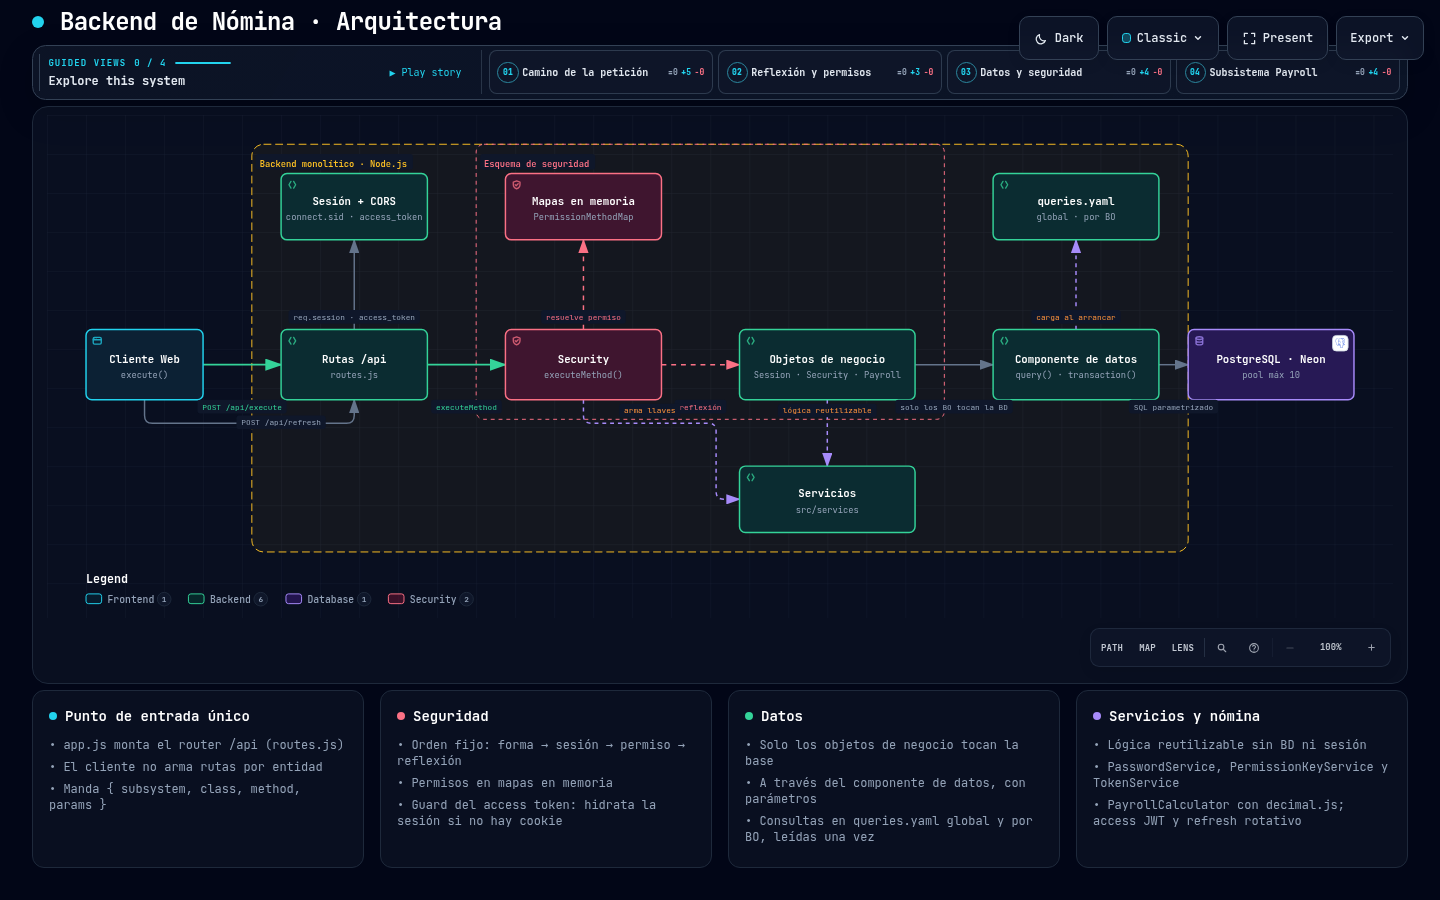
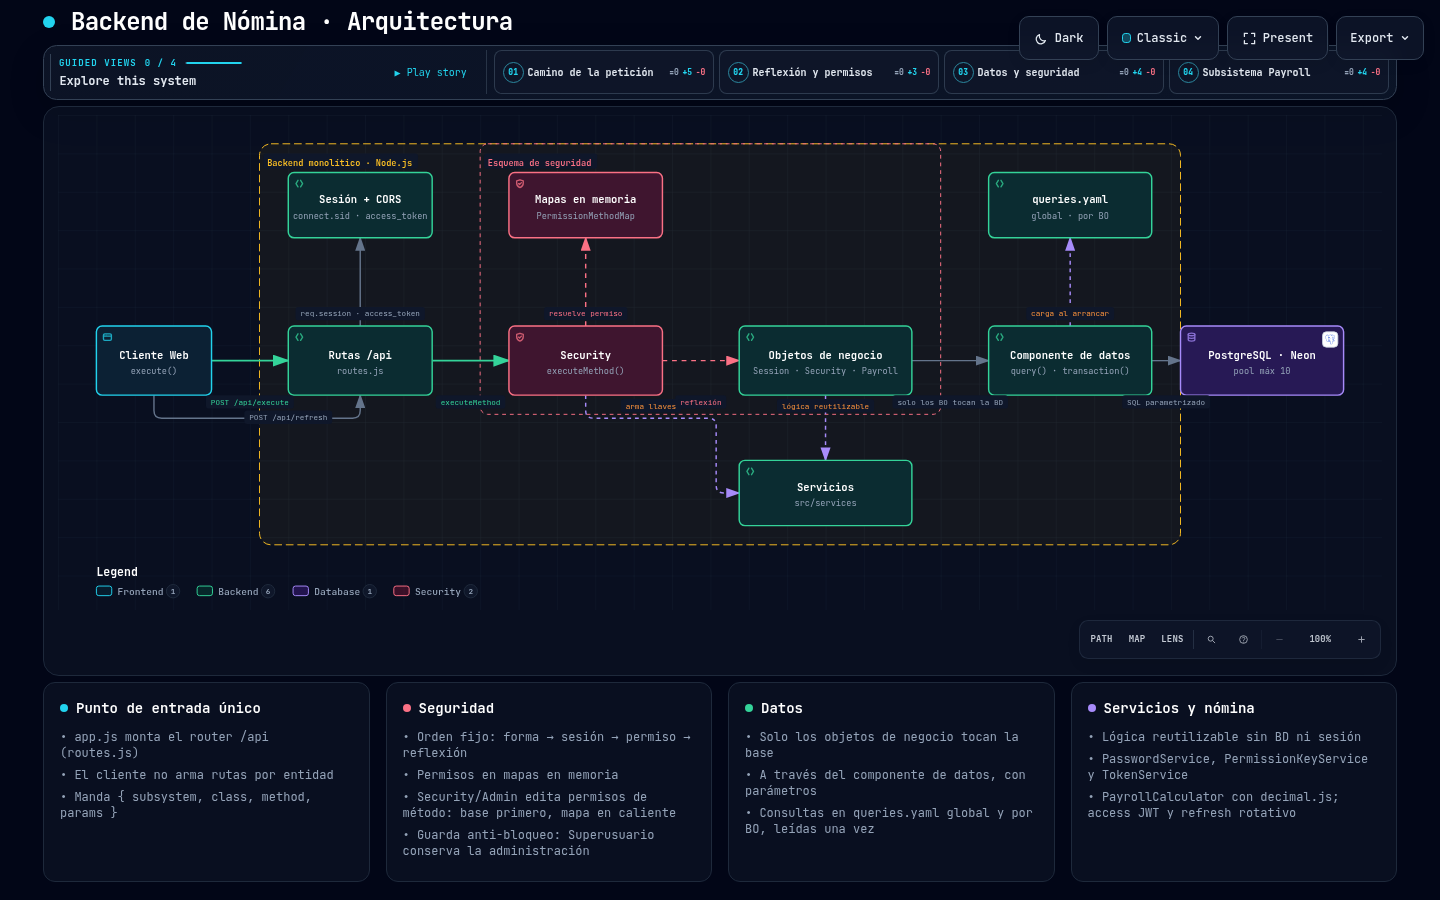
docs: administracion de permisos de metodo por perfil

diff --git a/archify-out/payroll-backend-architecture.html b/archify-out/payroll-backend-architecture.html
@@ -5280,8 +5280,8 @@ OTHER DEALINGS IN THE FONT SOFTWARE.
         <text data-detail="fine" x="315" y="120" class="t-backend" font-size="7" text-anchor="middle">express-session + JWT</text>
         </g>
 
-        <g id="node-permisos" data-node-id="permisos" data-node-label="Mapas en memoria" tabindex="0" role="button" aria-label="Focus Mapas en memoria, PermissionMethodMap, Backend monolítico · Node.js › Esquema de seguridad" aria-pressed="false" data-node-kind="security" data-node-sublabel="PermissionMethodMap" data-node-tag="O(1) por perfil" data-node-context="Backend monolítico · Node.js › Esquema de seguridad">
-          <title>Mapas en memoria · PermissionMethodMap · Backend monolítico · Node.js › Esquema de seguridad · O(1) por perfil</title>
+        <g id="node-permisos" data-node-id="permisos" data-node-label="Mapas en memoria" tabindex="0" role="button" aria-label="Focus Mapas en memoria, PermissionMethodMap, Backend monolítico · Node.js › Esquema de seguridad" aria-pressed="false" data-node-kind="security" data-node-sublabel="PermissionMethodMap" data-node-tag="O(1) por perfil · edición en caliente" data-node-context="Backend monolítico · Node.js › Esquema de seguridad">
+          <title>Mapas en memoria · PermissionMethodMap · Backend monolítico · Node.js › Esquema de seguridad · O(1) por perfil · edición en caliente</title>
           <rect x="470" y="60" width="160" height="68" rx="6" class="c-mask"/>
           <rect x="470" y="60" width="160" height="68" rx="6" class="c-security" stroke-width="1.5"/>
           <g aria-hidden="true" data-semantic-sigil="security" class="semantic-sigil s-security" transform="translate(476 66) scale(0.6875)">
@@ -5290,7 +5290,7 @@ OTHER DEALINGS IN THE FONT SOFTWARE.
           </g>
           <text data-node-label="" data-detail-anchor="" x="550" y="92" class="t-primary" font-size="11" font-weight="600" text-anchor="middle">Mapas en memoria</text>
         <text data-detail="context" x="550" y="108" class="t-muted" font-size="9" text-anchor="middle">PermissionMethodMap</text>
-        <text data-detail="fine" x="550" y="120" class="t-security" font-size="7" text-anchor="middle">O(1) por perfil</text>
+        <text data-detail="fine" x="550" y="120" class="t-security" font-size="6.8" text-anchor="middle">O(1) por perfil · edición en caliente</text>
         </g>
 
         <g id="node-queries" data-node-id="queries" data-node-label="queries.yaml" tabindex="0" role="button" aria-label="Focus queries.yaml, global · por BO, Backend monolítico · Node.js" aria-pressed="false" data-node-kind="backend" data-node-sublabel="global · por BO" data-node-tag="SQL parametrizado $1, $2" data-node-context="Backend monolítico · Node.js">
@@ -5588,7 +5588,8 @@ OTHER DEALINGS IN THE FONT SOFTWARE.
         <ul>
           <li>&bull; Orden fijo: forma → sesión → permiso → reflexión</li>
           <li>&bull; Permisos en mapas en memoria</li>
-          <li>&bull; Guard del access token: hidrata la sesión si no hay cookie</li>
+          <li>&bull; Security/Admin edita permisos de método: base primero, mapa en caliente</li>
+          <li>&bull; Guarda anti-bloqueo: Superusuario conserva la administración</li>
         </ul>
       </div>
 

diff --git a/AGENTS.md b/AGENTS.md
@@ -84,6 +84,17 @@ están aplicadas en el branch de desarrollo de Neon** (la credencial volvió a
 autenticar); `pnpm test` 69/69 y `payroll_e2e.mjs` 50/50 → `PAYROLL E2E OK`.
 Los pasos originales para el socio quedan en `PENDIENTE-SOCIO.txt`.
 
+**Spec 009 (permisos de método por perfil) implementada (2026-11-08):**
+`Security/Admin` suma `listarMetodos`, `listarPermisosMetodo`,
+`asignarPermisoMetodo` y `quitarPermisoMetodo`, exclusivos de
+`Superusuario`; la migración `db/migrations/006_permisos_metodos.sql` los
+siembra y crea la opción de menú `Permisos`, también exclusiva de ese perfil.
+Cada cambio se escribe primero en `permiso_metodo` y después actualiza
+`PermissionMethodMap` con `security.setPermissionMethod` (sin reiniciar).
+`Superusuario` no puede perder los cinco métodos que sostienen la vista
+(409). `pnpm test` 80/80 y `scripts/manual/permisos_e2e.mjs` 38/38 →
+`PERMISOS E2E OK`.
+
 **Pendiente:** el endpoint del menú y el front (Fase 5), y migrar las
 consultas de `queries.yaml` a los BO.
 
@@ -367,11 +378,36 @@ o datos desechables), y ninguna prueba depende de otra.
 - **`ON DELETE RESTRICT` lanza `restrict_violation` (23001)**, no
   `foreign_key_violation` (23503). Manejar ambos al traducir errores. Ver
   skill `nomina-postgres-neon`.
+- **Los mapas de permisos viven en el proceso.** `setPermissionMethod`
+  actualiza solo la instancia que atendió la escritura. Con varias instancias
+  hay que publicar el cambio (pub/sub) o llamar `reloadPermissions` en cada
+  nodo; en este proyecto hay una sola. Ver spec 009.
 
 ## Decisiones de diseño
 
 Registro de decisiones con su motivo. Las viejas no se editan: si una cambia,
 se agrega una nueva que la reemplaza.
+
+### 2026-11-08
+
+- **Administración de permisos de método en caliente.** `Security/Admin`
+  expone `listarMetodos`, `listarPermisosMetodo`, `asignarPermisoMetodo` y
+  `quitarPermisoMetodo`, solo para `Superusuario`. Motivo: cambiar quién
+  ejecuta un método obligaba a escribir SQL y reiniciar el backend.
+- **La base manda: primero `permiso_metodo`, después el mapa.** Si la
+  escritura falla, el mapa no cambia. Los ids se validan como enteros
+  positivos antes de consultar (`400`); perfil o método inexistente/inactivo
+  es `404`. Asignar y quitar son idempotentes (`yaEstaba` / `yaNoEstaba`).
+- **Guarda anti-bloqueo.** `Superusuario` no puede perder
+  `Security/Admin/{listarMetodos,listarPermisosMetodo,asignarPermisoMetodo,quitarPermisoMetodo}`
+  ni `Security/User/listarPerfiles` (`409`): sin ellos nadie podría volver a
+  conceder permisos.
+- **La opción de menú `Permisos` es exclusiva de `Superusuario`.** La
+  migración 006 la crea (`Security`, orden 4) y borra el grant que el seed
+  concede a `Administrador` para todas las opciones de `Security`. Motivo:
+  re-ejecutar el seed no debe exponer la vista a otro perfil.
+- **Sin cambio de esquema.** `permiso_metodo (perfil_id, metodo_id)` ya
+  existía; 006 solo inserta datos. `db/schema.dbml` no cambia.
 
 ### 2026-10-20
 

diff --git a/MEMORY.md b/MEMORY.md
@@ -82,3 +82,4 @@ algo en regla permanente, se mueve a su documento y se quita de este archivo.
 
 - **Subsistema `Payroll` implementado (2026-11-08)**: 8 BO en `src/bo/Payroll/` (`Cargo`, `Hours`, `Affiliation`, `Concept`, `Novedad`, `Loan`, `Period`, `Receipt`), `PayrollCalculator` con `decimal.js` (240 h/mes, extra ×1.5, prorrateo por frecuencia, cuotas con interés simple plano), `queries.yaml` (64 consultas), `db/migrations/004_payroll.sql` (registro_horas, `cargo.valor_hora_base`, 12 conceptos, aportes de ley, 8 clases, 33 métodos, permisos y menú) y `005_listar_personas.sql` (`Security/User/listarPersonas`). Tests del calculador: **69/69**.
 - **004 y 005 aplicadas en Neon (2026-11-08)** sobre el branch de desarrollo: `registro_horas`, 12 conceptos, 4 tipos y 4 parámetros de aporte, subsistema Payroll (8 clases, 33 métodos), 103 permisos de método y 8 opciones de menú; `Security/User/listarPersonas` con permisos. Se corrigió un cast en 004 (`tope_base`/`piso_base` NULL de `VALUES` → `numeric(12,2)`). Re-ejecutadas: idempotentes (0 filas). `pnpm test` **69/69** y `payroll_e2e.mjs` **50/50 → PAYROLL E2E OK**. Diagrama `archify` refrescado con Payroll; falta refrescar el grafo `graphify`.
+- **Spec 009 (permisos de método por perfil) implementada (2026-11-08)**: `Security/Admin` suma `listarMetodos`, `listarPermisosMetodo`, `asignarPermisoMetodo` y `quitarPermisoMetodo` (solo `Superusuario`); migración `006_permisos_metodos.sql` con la opción de menú `Permisos` exclusiva de `Superusuario`. La escritura va a `permiso_metodo` y luego al mapa con `security.setPermissionMethod` (en caliente, sin reiniciar); guarda anti-bloqueo 409 para los cinco métodos críticos. `pnpm test` **80/80** y `permisos_e2e.mjs` **38/38 → PERMISOS E2E OK**. Diagrama `archify` y grafo `graphify` refrescados.

diff --git a/docs/bitacora.md b/docs/bitacora.md
@@ -187,3 +187,24 @@ es. Orden cronológico.
   86.63, neto 488.37; el empleado ve su recibo y recibe 403 al procesar).
 - Diagrama `archify` refrescado con el subsistema Payroll (9/9 checks
   showcase, 0 errores, 0 warnings, visual-check sin overflow).
+
+### Administración de permisos de método por perfil (2026-11-08)
+
+- Spec 009: `Security/Admin` suma `listarMetodos`, `listarPermisosMetodo`,
+  `asignarPermisoMetodo` y `quitarPermisoMetodo`. La migración idempotente
+  `db/migrations/006_permisos_metodos.sql` siembra los cuatro métodos, los
+  concede solo a `Superusuario` y crea la opción de menú `Permisos`
+  (`Security`, orden 4), exclusiva de ese perfil (borra el grant que el seed
+  da a `Administrador`).
+- Seis consultas nuevas en `src/bo/Security/queries.yaml`. El BO valida los
+  ids (`400`), exige perfil/método activos (`404`), escribe primero en
+  `permiso_metodo` y después actualiza `PermissionMethodMap` con
+  `security.setPermissionMethod`, sin reiniciar. Asignar y quitar son
+  idempotentes (`yaEstaba` / `yaNoEstaba`).
+- Guarda anti-bloqueo: quitar a `Superusuario` cualquiera de los cinco
+  métodos que sostienen la vista responde `409` sin tocar base ni mapa.
+- Verificación: `pnpm test` **80/80** (11 casos nuevos en
+  `test/adminPermisos.test.js`) y `node scripts/manual/permisos_e2e.mjs
+  --yes` **38/38 → PERMISOS E2E OK**, restaurando el estado inicial.
+- Diagrama `archify` refrescado (mención de la edición en caliente y de la
+  guarda anti-bloqueo); grafo `graphify` regenerado.
